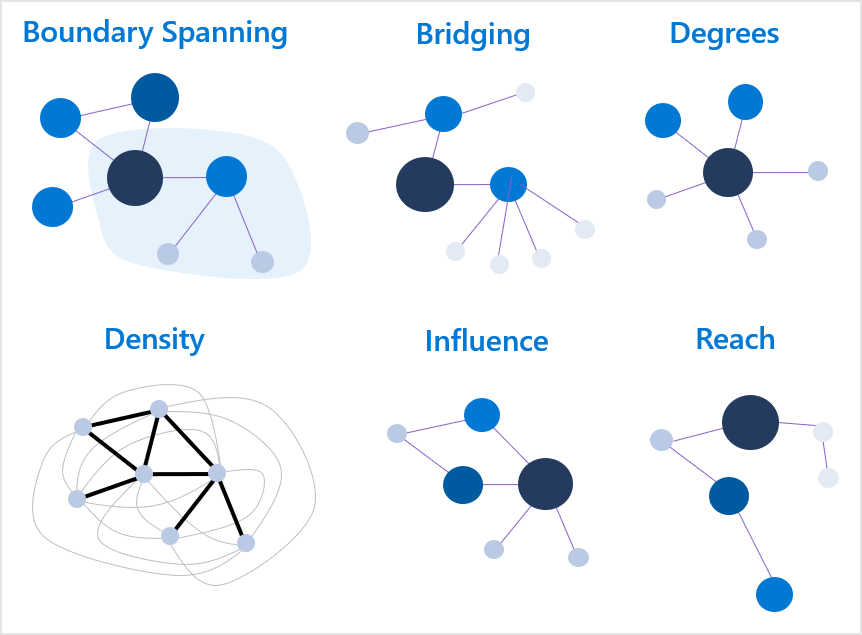
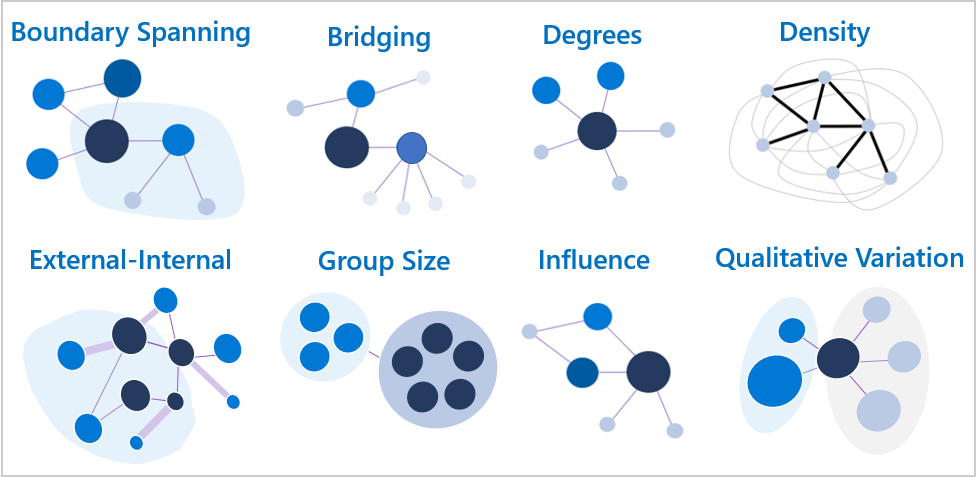
new AzT images for ONA

diff --git a/WorkplaceAnalytics/azure-templates/release-notes.md b/WorkplaceAnalytics/azure-templates/release-notes.md
@@ -29,21 +29,26 @@ This release introduces the new Relationship Intelligence report for Power BI th
 
 This report uses account and contact information from a Customer Relationship Management (CRM) platform, such as Dynamics or Salesforce to analyze account-level insights into relationship patterns. To learn more, see [Relationship Intelligence](./relation-intel.md).
 
+### Workspace Planning Azure Template
+
+
+
+For details, see [Workspace Planning Azure Template](space-planning.md).
+
 ### Organizational Network Analysis (ONA) Azure Template
 
-* **New ONA metrics** - The following new metrics are now available in ONA graphs:
+* The following new ONA metrics are now available in ONA graphs:
 
-  * **E-I Index** and **Qualitative Variation Index**, which are only available in downloaded graph data.
-  * **Group Size** metric is only available in *combined view* graphs.
-  * **Density ratios** are now available in *group view* graphs.
-
-  For more details, see [measure calculations](ona-metric-calculations.md).
+  * **E-I Index** - Indicates the size of an imbalance between external and internal collaboration for an individual within a group or for a group, which is only available in downloaded graph data.  
+  * **Qualitative Variation Index** - Measures the diversity among the contacts (egonet) of an individual or a group, which is only available in downloaded graph data.
+  * **Group Size** - Represents the group size based on the number of people that share the same attribute in the selected time period, which is only available in *combined view* graphs.
+  * **Density ratio** - Compares the density values of a group to the expected density of a group's size within the context of the tenant, which is now available in *group view* graphs.
 
 * **Zip file download** - Ensures a data download file includes all data and is not restricted by Excel row limits.
 * **Relocated Load Graph option** - Load Graph is now on the main page for each dataset making it easier to find saved graphs.
 * **Dark mode** - This option is now available for ONA visuals, where you can change the background from white to dark.
 
-To learn more about ONA, see [Organizational Network Analysis Azure Template](./organization-network-analysis.md).
+To learn more about ONA, see [Organizational Network Analysis Azure Template](./organization-network-analysis.md). See [measure calculations](ona-metric-calculations.md) for more details about the metrics.
 
 ### Join Datasets Azure Template
 

diff --git a/WorkplaceAnalytics/azure-templates/ona-metric-calculations.md b/WorkplaceAnalytics/azure-templates/ona-metric-calculations.md
@@ -48,7 +48,7 @@ You can size the nodes based on various network metrics. The following table lis
 
 The following graphic shows the different Node Sizing options where the largest node in each graph represents the one with the highest measure for that option.
 
-![Node Sizing Options](./images/ona-node-options-b.png)
+![Node Sizing Options](./images/ona-node-options.png)
 
 ## Are the measures for employees and groups different?
 
